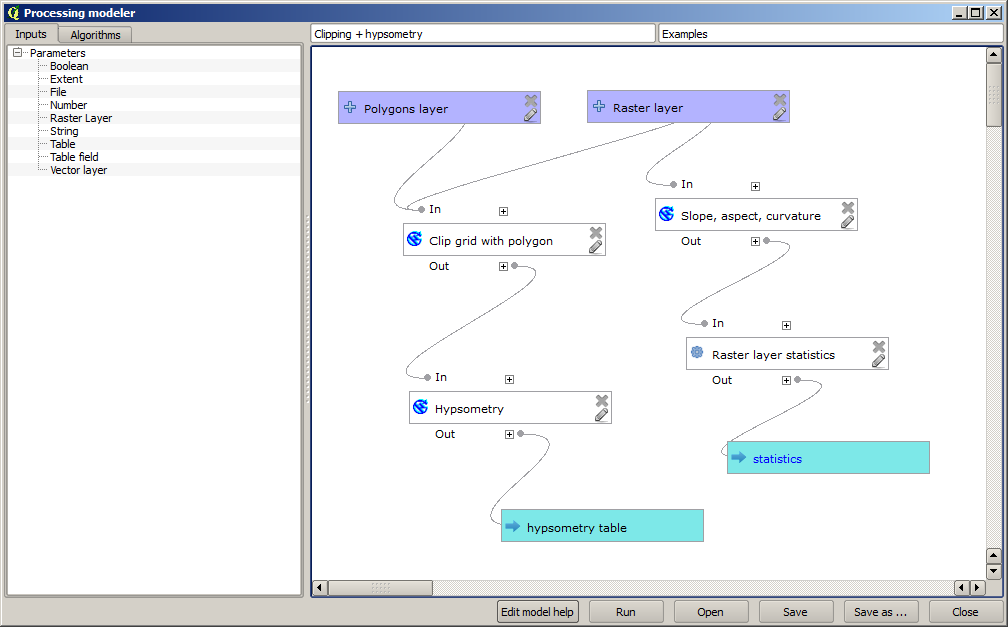
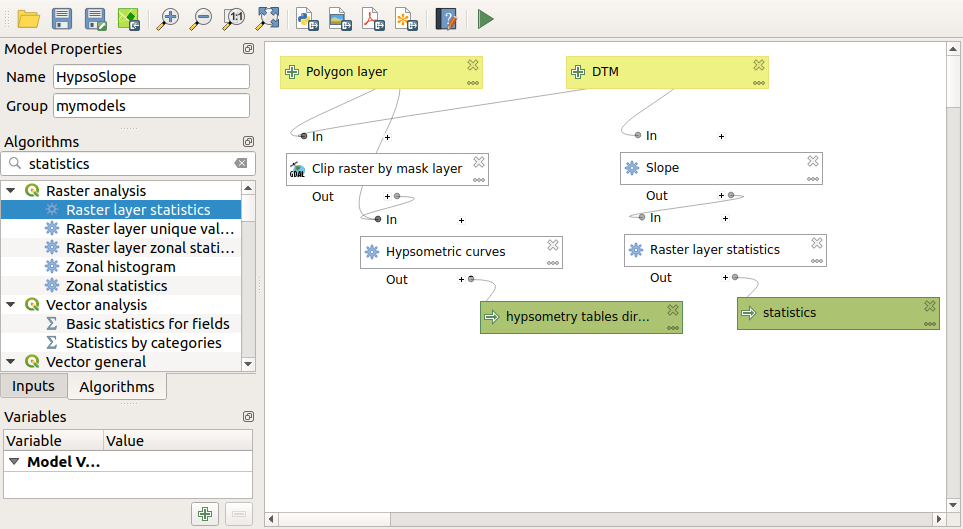
Upgrade training manual iterative execution to QGIS 3 models (#5432)
* Updated model screenshot to QGIS 3 (graphical modeller)

* Update iterative_model.rst

* Update screenshot to QGIS 3 (graphical modeller)

diff --git a/docs/training_manual/processing/iterative_model.rst b/docs/training_manual/processing/iterative_model.rst
@@ -17,18 +17,20 @@ The model should look like this:
 
 .. figure:: img/iterative_model/model.png
 
-Add the model to you models folder, so it is available in the toolbox, and now execute it.
+Add the model to you models folder, so it is available in the toolbox, and execute it.
 
-.. figure:: img/iterative_model/model.png
+Select the DEM and watersheds basins.
 
-Select the DEM and watersheds basins, and do not forget to toggle the button that indicates that the algorithm has to be run iteratively.
+The algorithm will generate tables for all the basins and place them in the output
+directory.
 
-The algorithm will be run several times, and the corresponding tables will be created and open in your QGIS project.
-
-.. figure:: img/iterative_model/tables.png
-
-We can make this example more complex by extending the model and computing some slope statistics. Add the *Slope, aspect, curvature* algorithm to the model, and then the *Raster statistics* algorithm, which should use the slope output as its only input.
+We can make this example more complex by extending the model and computing some slope
+statistics.
+Add the *Slope* algorithm to the model, and then the *Raster statistics* algorithm,
+which should use the slope output as its only input.
 
 .. figure:: img/iterative_model/model2.png
 
-If you now run the model, apart from the tables you will get a set of pages with statistics. These pages will be available in the results dialog.
+If you now run the model, apart from the tables you will get a set of pages with
+statistics.
+These pages will be available in the results dialog.
